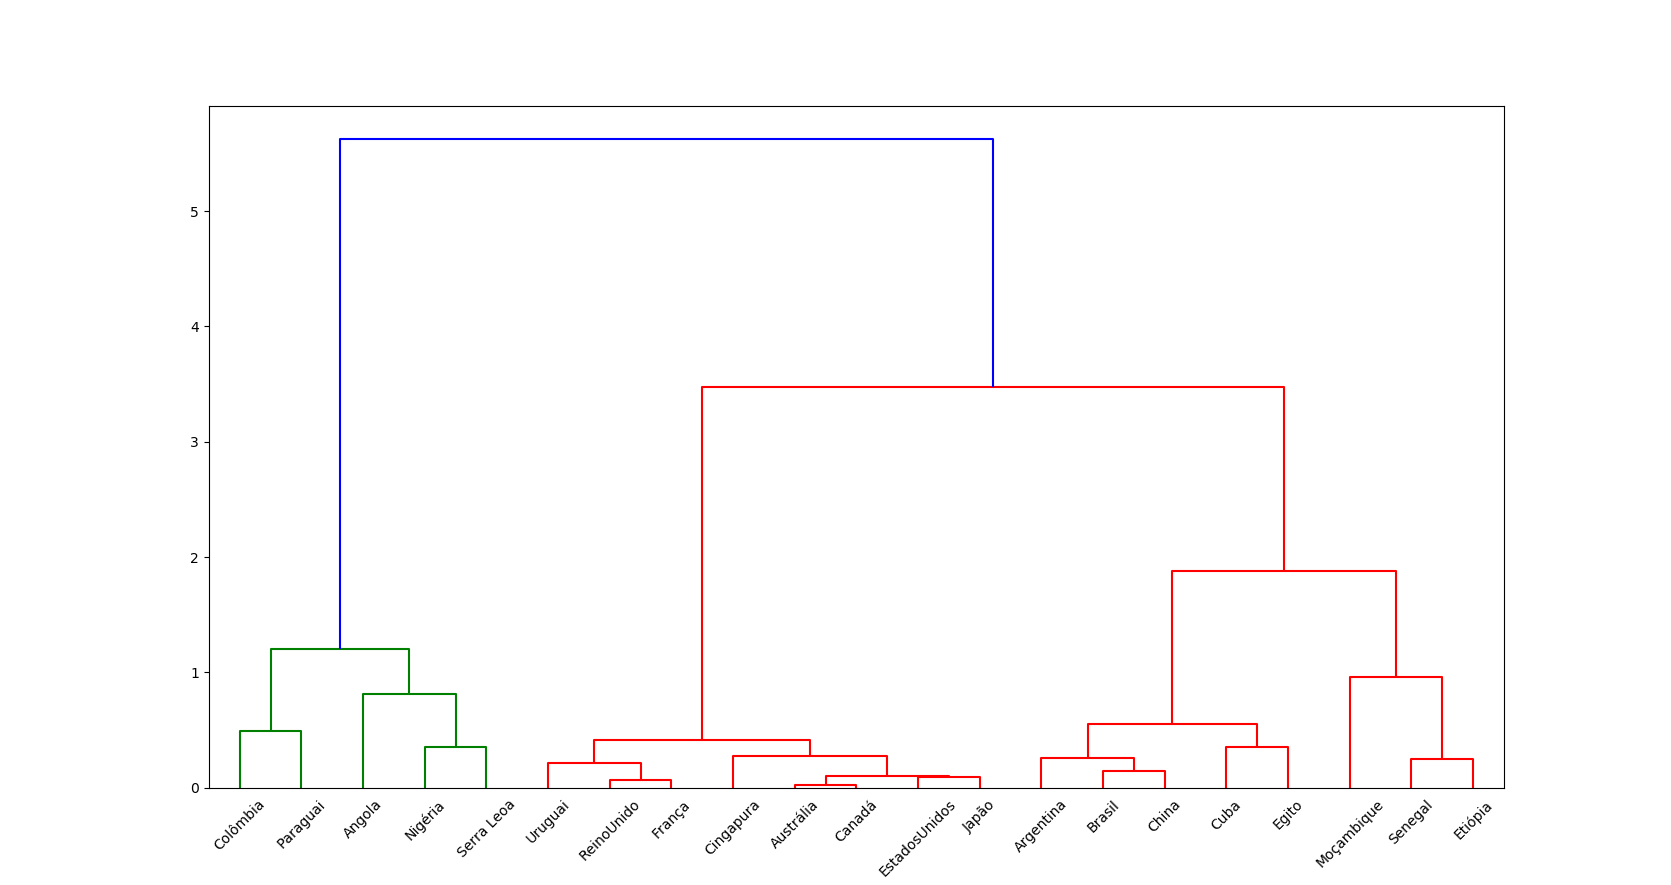
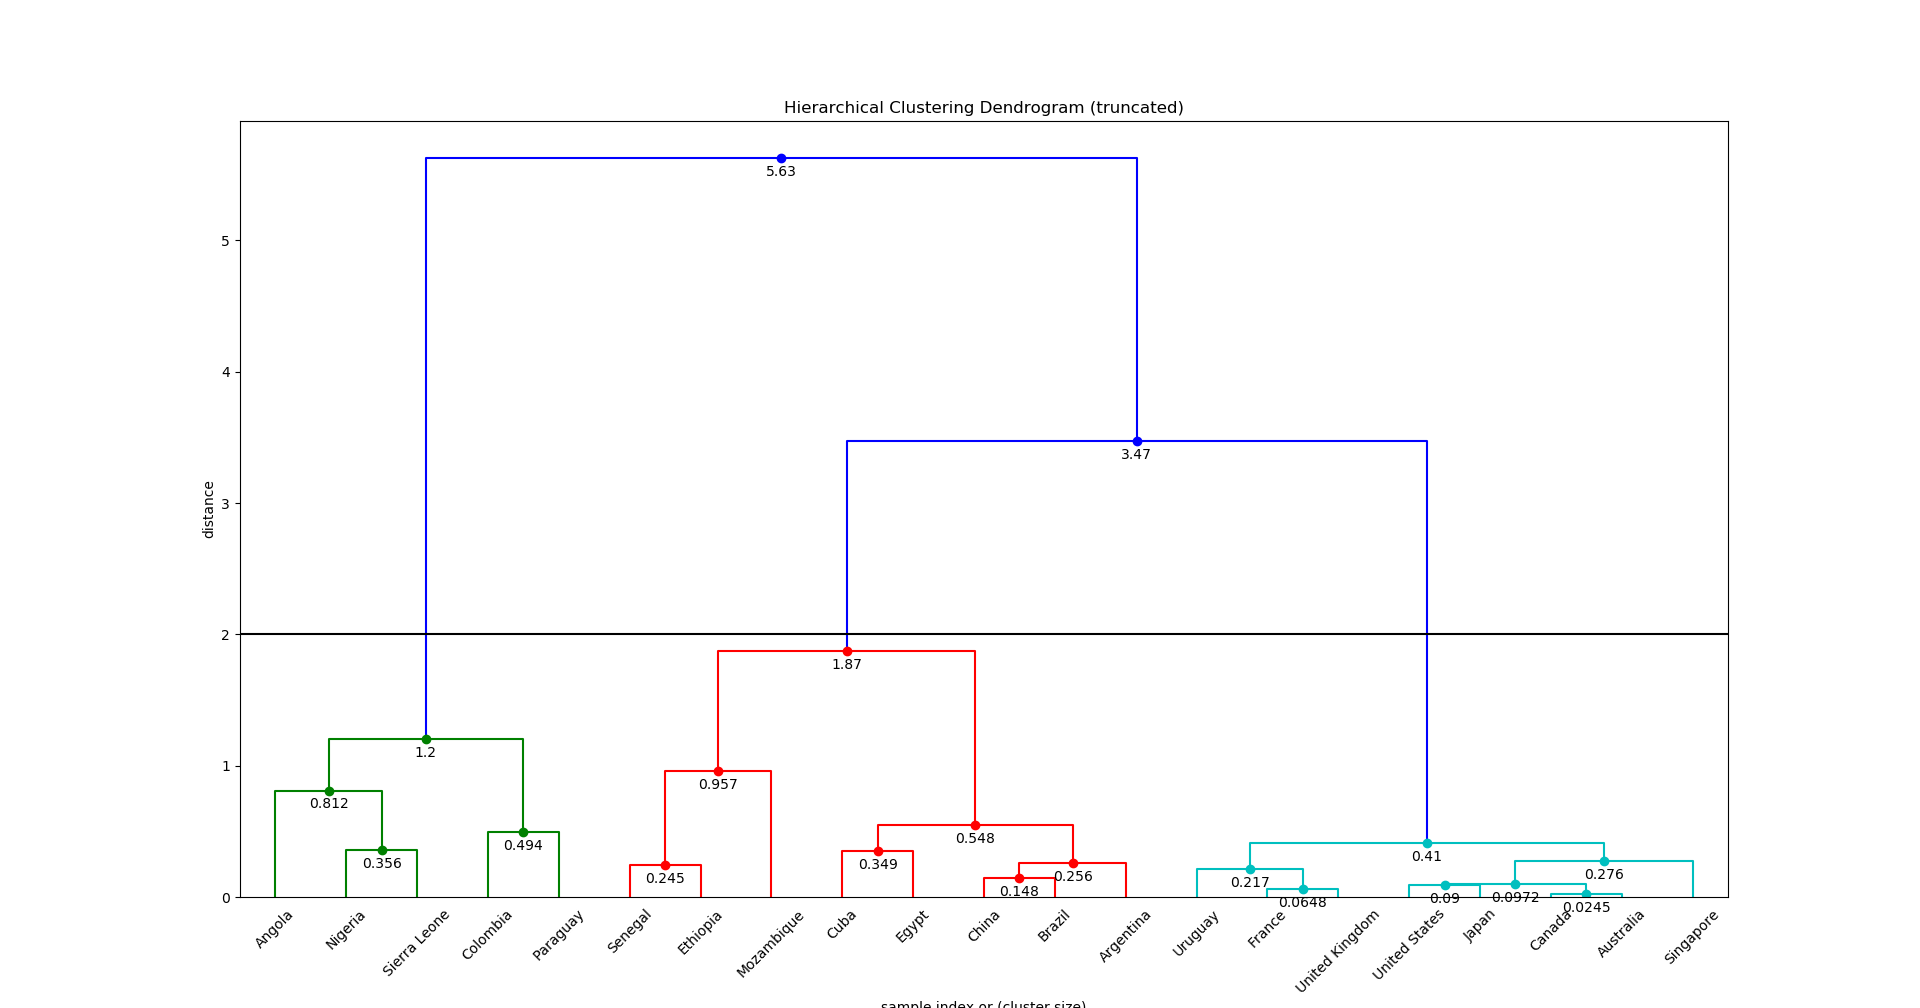
modificando as questões

diff --git a/questao3.py b/questao3.py
@@ -1,4 +1,4 @@
-from scipy.cluster.hierarchy import dendrogram, linkage
+from scipy.cluster.hierarchy import dendrogram, linkage, cut_tree
 import numpy as np
 import json
 from matplotlib import pyplot
@@ -18,18 +18,43 @@ def json_to_array(json_file: dict) -> np.array:
     return np.array(final_array)
 
 
+def fancy_dendrogram(*args, **kwargs):
+    max_d = kwargs.pop('max_d', None)
+    if max_d and 'color_threshold' not in kwargs:
+        kwargs['color_threshold'] = max_d
+    annotate_above = kwargs.pop('annotate_above', 0)
+
+    ddata = dendrogram(*args, **kwargs)
+
+    if not kwargs.get('no_plot', False):
+        pyplot.title('Hierarchical Clustering Dendrogram (truncated)')
+        pyplot.xlabel('sample index or (cluster size)')
+        pyplot.ylabel('distance')
+        for i, d, c in zip(ddata['icoord'], ddata['dcoord'], ddata['color_list']):
+            x = 0.5 * sum(i[1:3])
+            y = d[1]
+            if y > annotate_above:
+                pyplot.plot(x, y, 'o', c=c)
+                pyplot.annotate("%.3g" % y, (x, y), xytext=(0, -5),
+                                textcoords='offset points',
+                                va='top', ha='center')
+        if max_d:
+            pyplot.axhline(y=max_d, c='k')
+    return ddata
+
+
 if __name__ == '__main__':
     data_path = "datasets/onu2002.json"
     file = json.load(open(data_path))
 
     data = json_to_array(file)
 
-    linked = linkage(data, method="ward", metric="euclidean")
+    linked = linkage(data, method="ward", metric="euclidean", optimal_ordering=True)
 
     pyplot.figure("dendrogram")
 
     labels = np.array([country for country in file])
 
-    dendrogram(linked, orientation="top", labels=labels, distance_sort="descending")
+    fancy_dendrogram(linked, labels=labels, max_d=2)
 
     pyplot.show()

diff --git a/questao4.py b/questao4.py
@@ -5,6 +5,7 @@ import plotly.plotly as py
 import pandas as pd
 import plotly.graph_objs as go
 
+
 def json_to_array(json_file: dict) -> np.array:
     final_array = list()
 
@@ -19,6 +20,17 @@ def json_to_array(json_file: dict) -> np.array:
     return np.array(final_array)
 
 
+def execute_kmeans(n_clusters: int, data: np.array, labels: np.array):
+    k_means = KMeans(n_clusters=n_clusters)
+
+    k_means.fit(data)
+
+    for i in range(n_clusters):
+        print("Cluster {}".format(i))
+        print(labels[k_means.labels_ == i])
+        print()
+
+
 if __name__ == '__main__':
     data_path = "datasets/onu2002.json"
     file = json.load(open(data_path))
@@ -27,18 +39,4 @@ if __name__ == '__main__':
 
     labels = np.array([country for country in file])
 
-    k_means = KMeans(n_clusters=3)
-
-    k_means.fit(data)
-
-    print("cluster 0")
-
-    print(labels[k_means.labels_ == 0])
-    print()
-
-    print("cluster 1")
-    print(labels[k_means.labels_ == 1])
-
-    print()
-    print("cluster 2")
-    print(labels[k_means.labels_ == 2])
+    execute_kmeans(4, data, labels)

diff --git a/questao5.py b/questao5.py
@@ -41,7 +41,7 @@ def make_labels_map() -> np.array:
 def train_som(data: np.array, m_din: int, n_din: int, features_size: int) -> MiniSom:
     som = MiniSom(m_din, n_din, features_size)
 
-    som.train_random(data, 1000, verbose=True)
+    som.train_random(data, 50000, verbose=True)
 
     return som
 

diff --git a/README.md b/README.md
@@ -116,18 +116,32 @@ desenvolvimento de países
 
 
 ## Questão 4  
-Considerando 3 clusters. O K-means agrupa os paises da seguinte forma:  
+
+### Considerando 3 clusters
 
 ##### primeiro cluster  
 Argentina, Cuba, Brasil, Egito, Moçambique, China  
 
 ##### segundo cluster  
-Colombia , paraguai, Nigeria, Senegal, Sierra Leone, Angola
+Colombia , paraguai, Nigeria, Senegal, Sierra Leone, Angola, Etiópia
 
 ##### terceiro cluster
 Reino Unido, Autralia, Canada, Estados Unidos, Japão, Fança ,Singapura , Uruguai
 
 
+### Considerando 4 clusters
+
+##### primeiro cluster  
+Argentina, Cuba, Brasil, Egito, Moçambique, China  
+
+##### segundo cluster  
+Colombia, Nigeria, Sierra Leone, Angola
+
+##### terceiro cluster
+Reino Unido, Autralia, Canada, Estados Unidos, Japão, Fança ,Singapura , Uruguai
+
+##### quarto cluster  
+Paraguai, Senegal, Etiópia
 
 
 ## Questão 5
